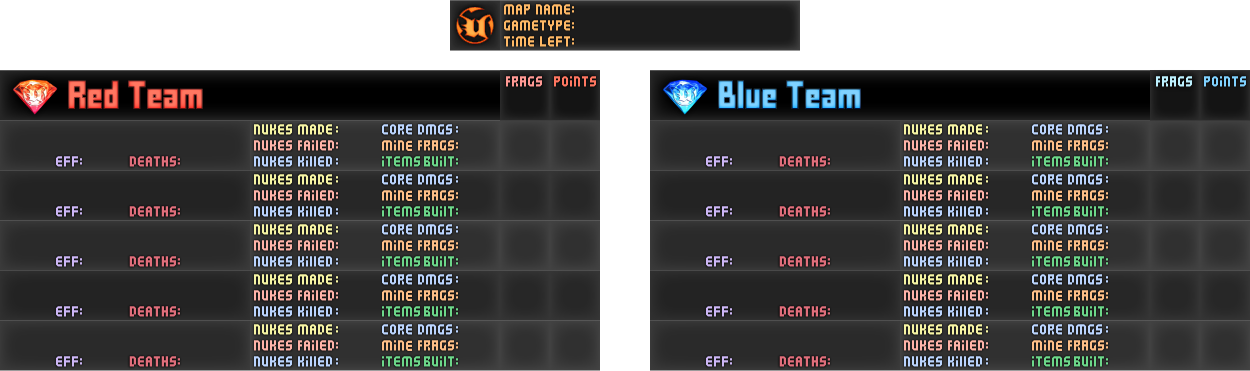
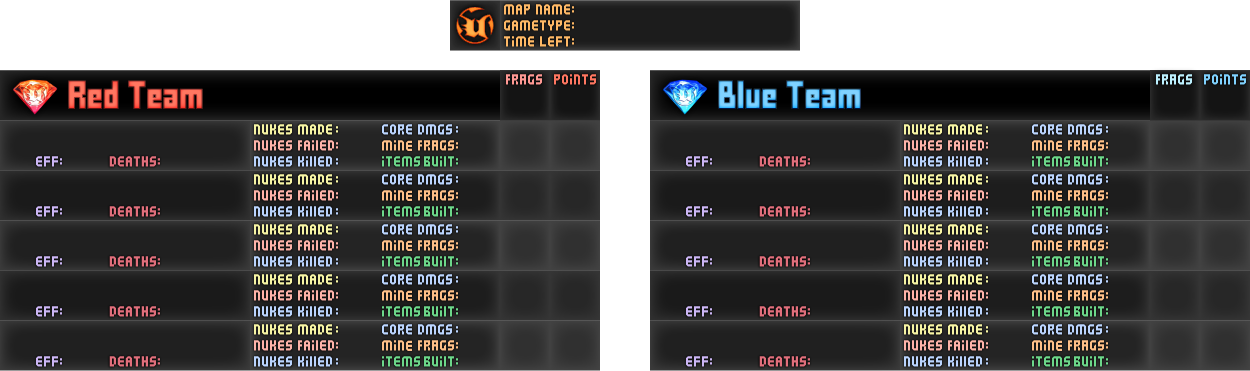
new templates

diff --git a/src/index.js b/src/index.js
@@ -299,7 +299,7 @@ if (isRegularMode && isTwoTeamPug) {
 
       template.print(
         langarEffFNT,
-        86,
+        66,
         y + 37,
         {
           text: `${eff}%`,
@@ -312,7 +312,7 @@ if (isRegularMode && isTwoTeamPug) {
 
       template.print(
         langarDeathsFNT,
-        186,
+        166,
         y + 37,
         {
           text: deaths.toFixed(0),
@@ -469,7 +469,7 @@ if (isRegularMode && isTwoTeamPug) {
 
       template.print(
         langarEffFNT,
-        736,
+        716,
         y + 37,
         {
           text: `${eff}%`,
@@ -482,7 +482,7 @@ if (isRegularMode && isTwoTeamPug) {
 
       template.print(
         langarDeathsFNT,
-        836,
+        816,
         y + 37,
         {
           text: deaths.toFixed(0),
